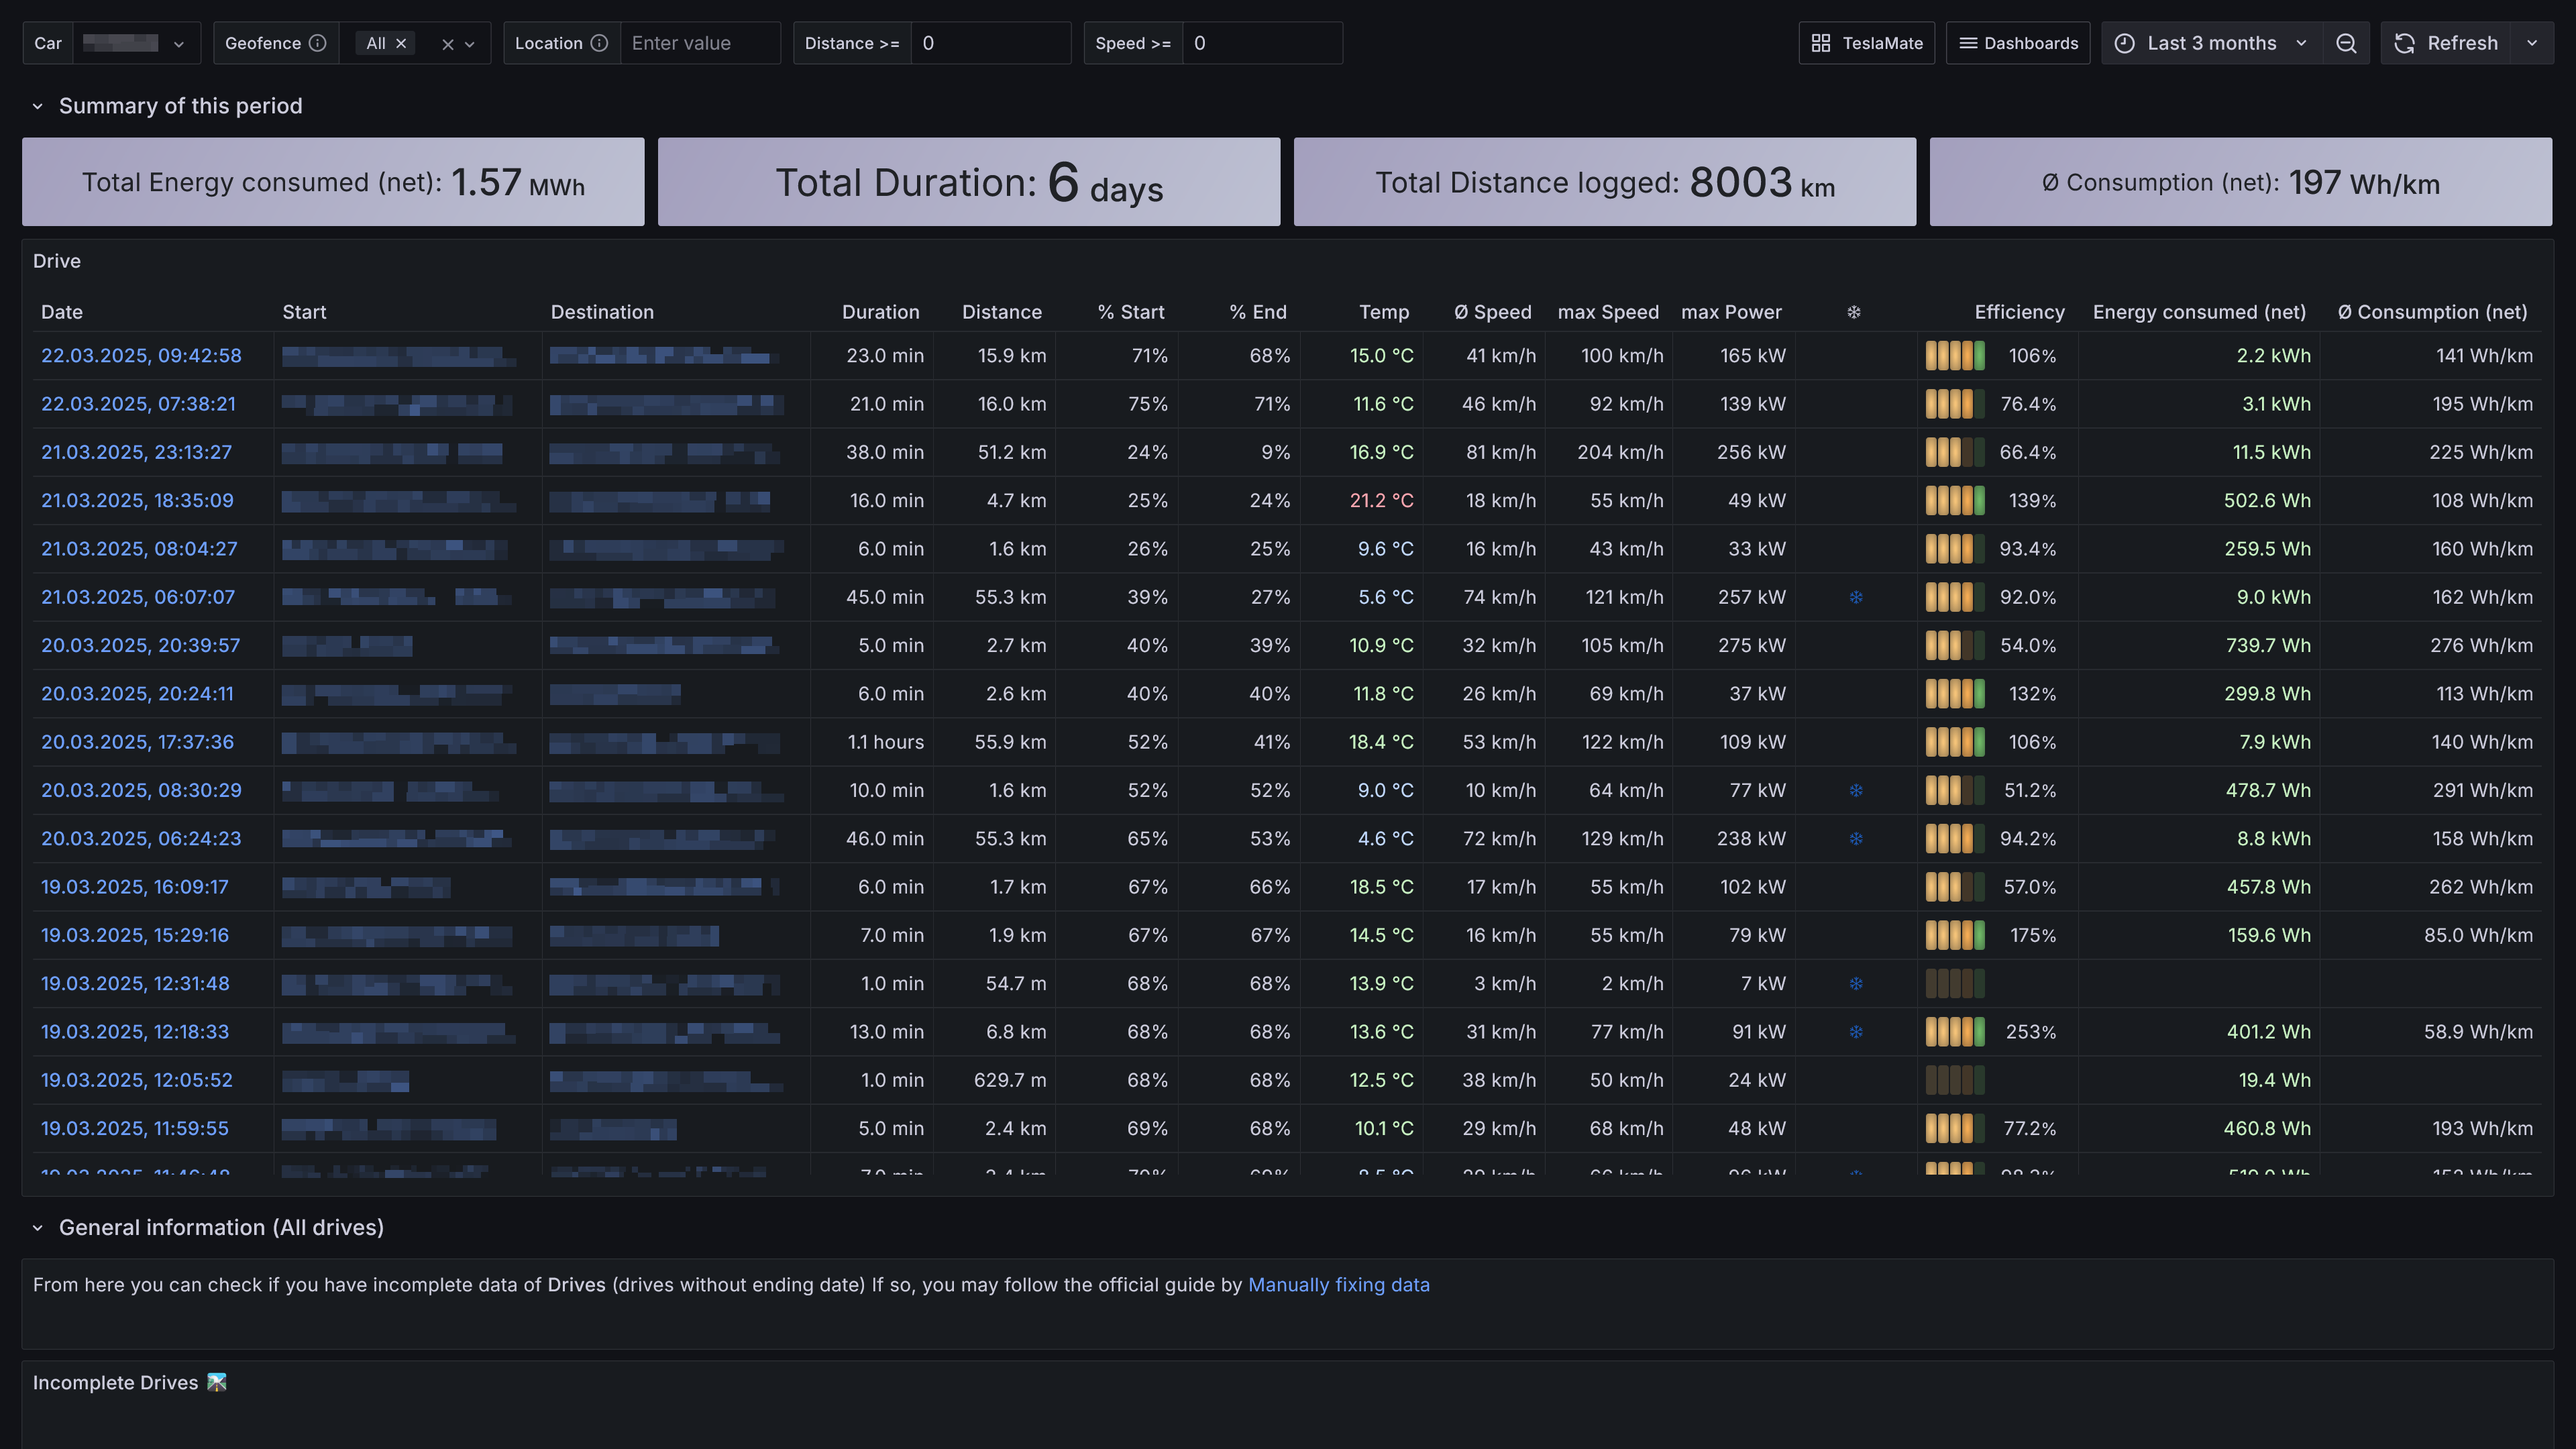
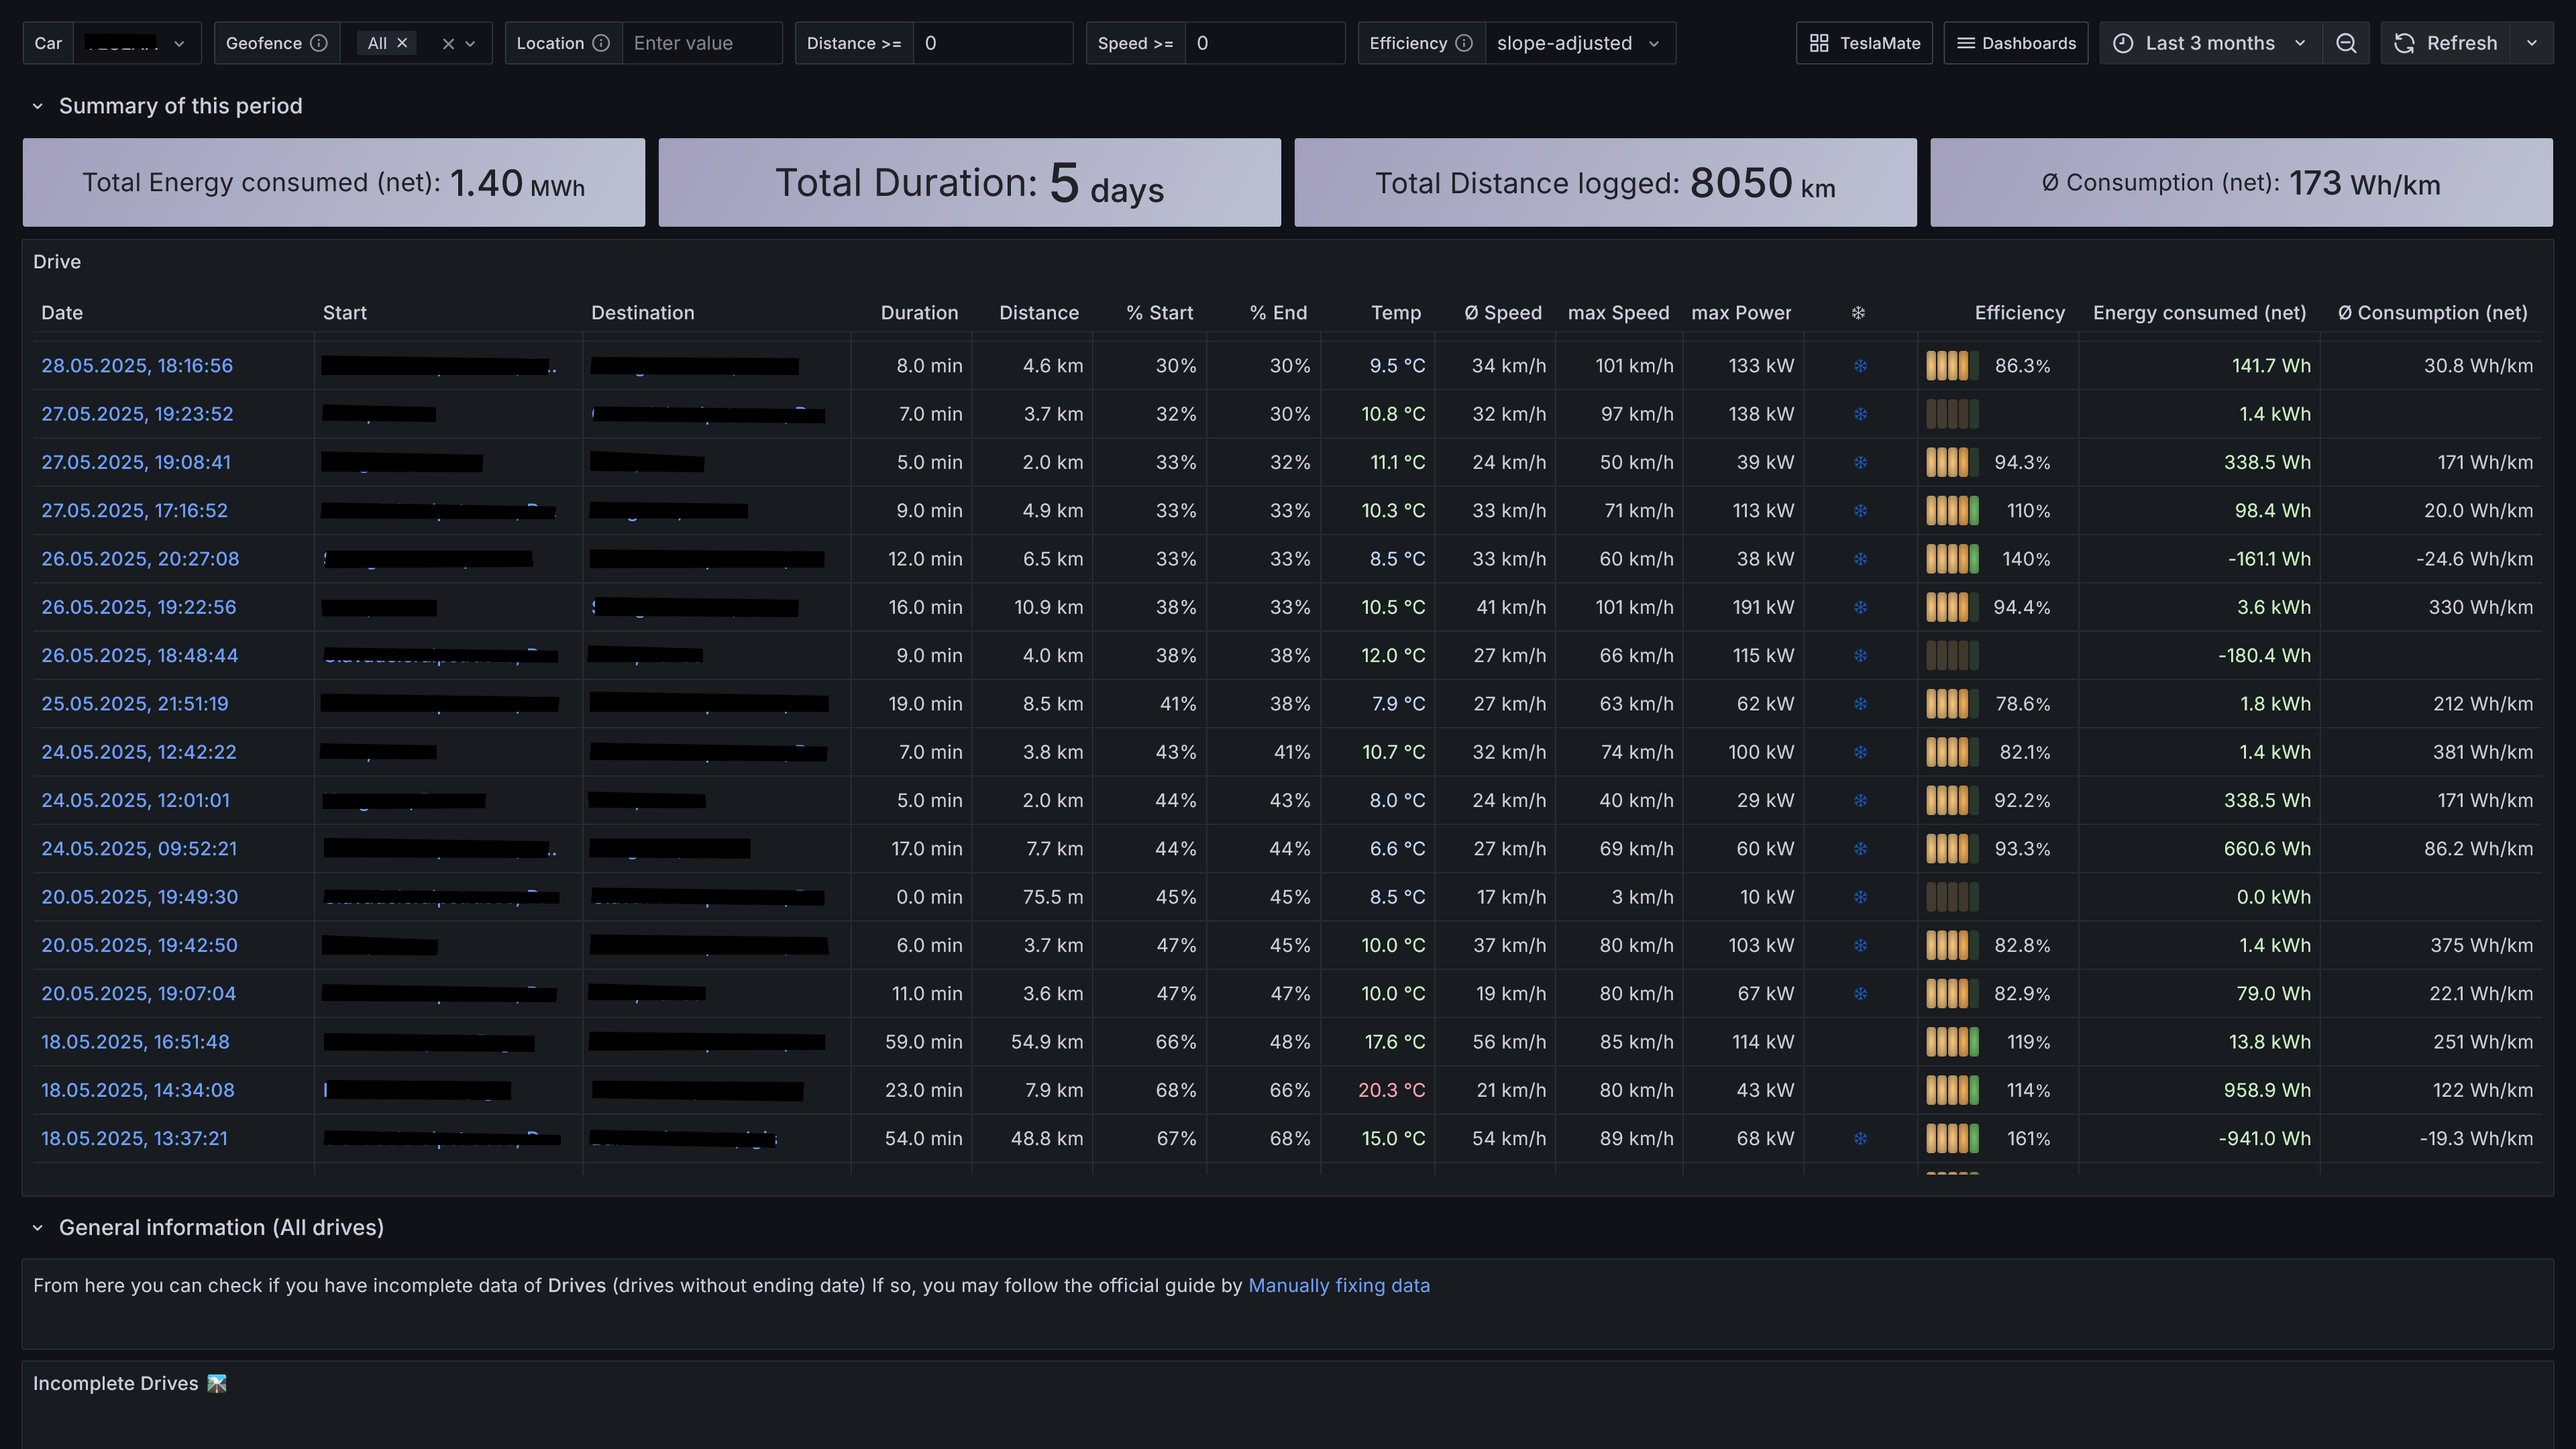
slope-adjusted efficiency

diff --git a/CHANGELOG.md b/CHANGELOG.md
@@ -38,7 +38,8 @@
 - fix: align usage of time-range filters to fix consumption gross issues in some edge cases (#4787 - @swiffer)
 - feat(dashboards-Charging-Stats): align query conditions and introduce a min duration filter applied to all panels to ensure consistent charging stats (#4791 - @swiffer)
 - feat(dashboards): reliably calculate charging costs per 100 km for shorter periods and align across trip, statistics and charging stats dashboards (#4791 - @swiffer)
-- feat(dashboards)detect consecutive charges and exclude from Charge / Discharge Stats (#4791 - @swiffer)
+- feat(dashboards): detect consecutive charges and exclude from Charge / Discharge Stats (#4791 - @swiffer)
+- feat(dashboards): introduce slope-adjusted efficiency metric in drives dashboard (#4798 - @swiffer)
 
 #### Translations
 
